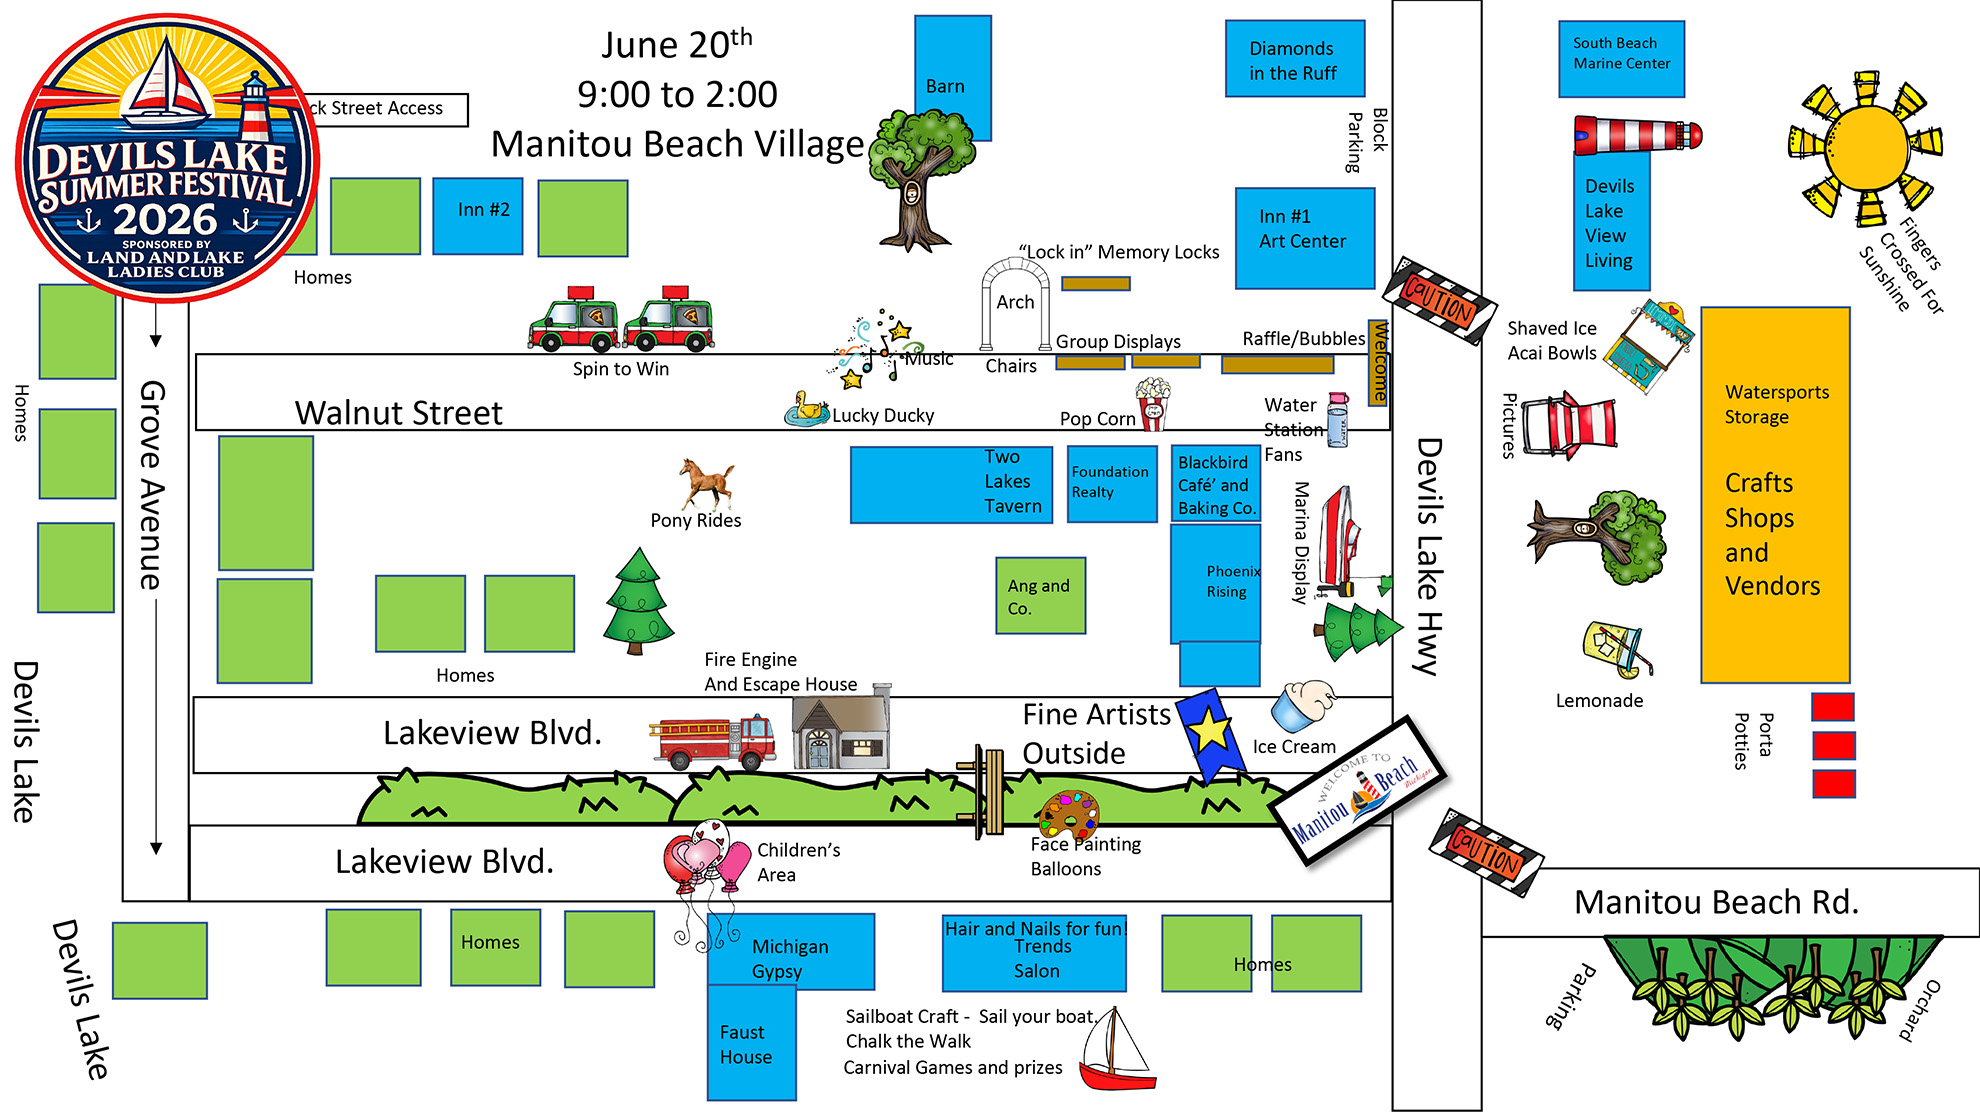
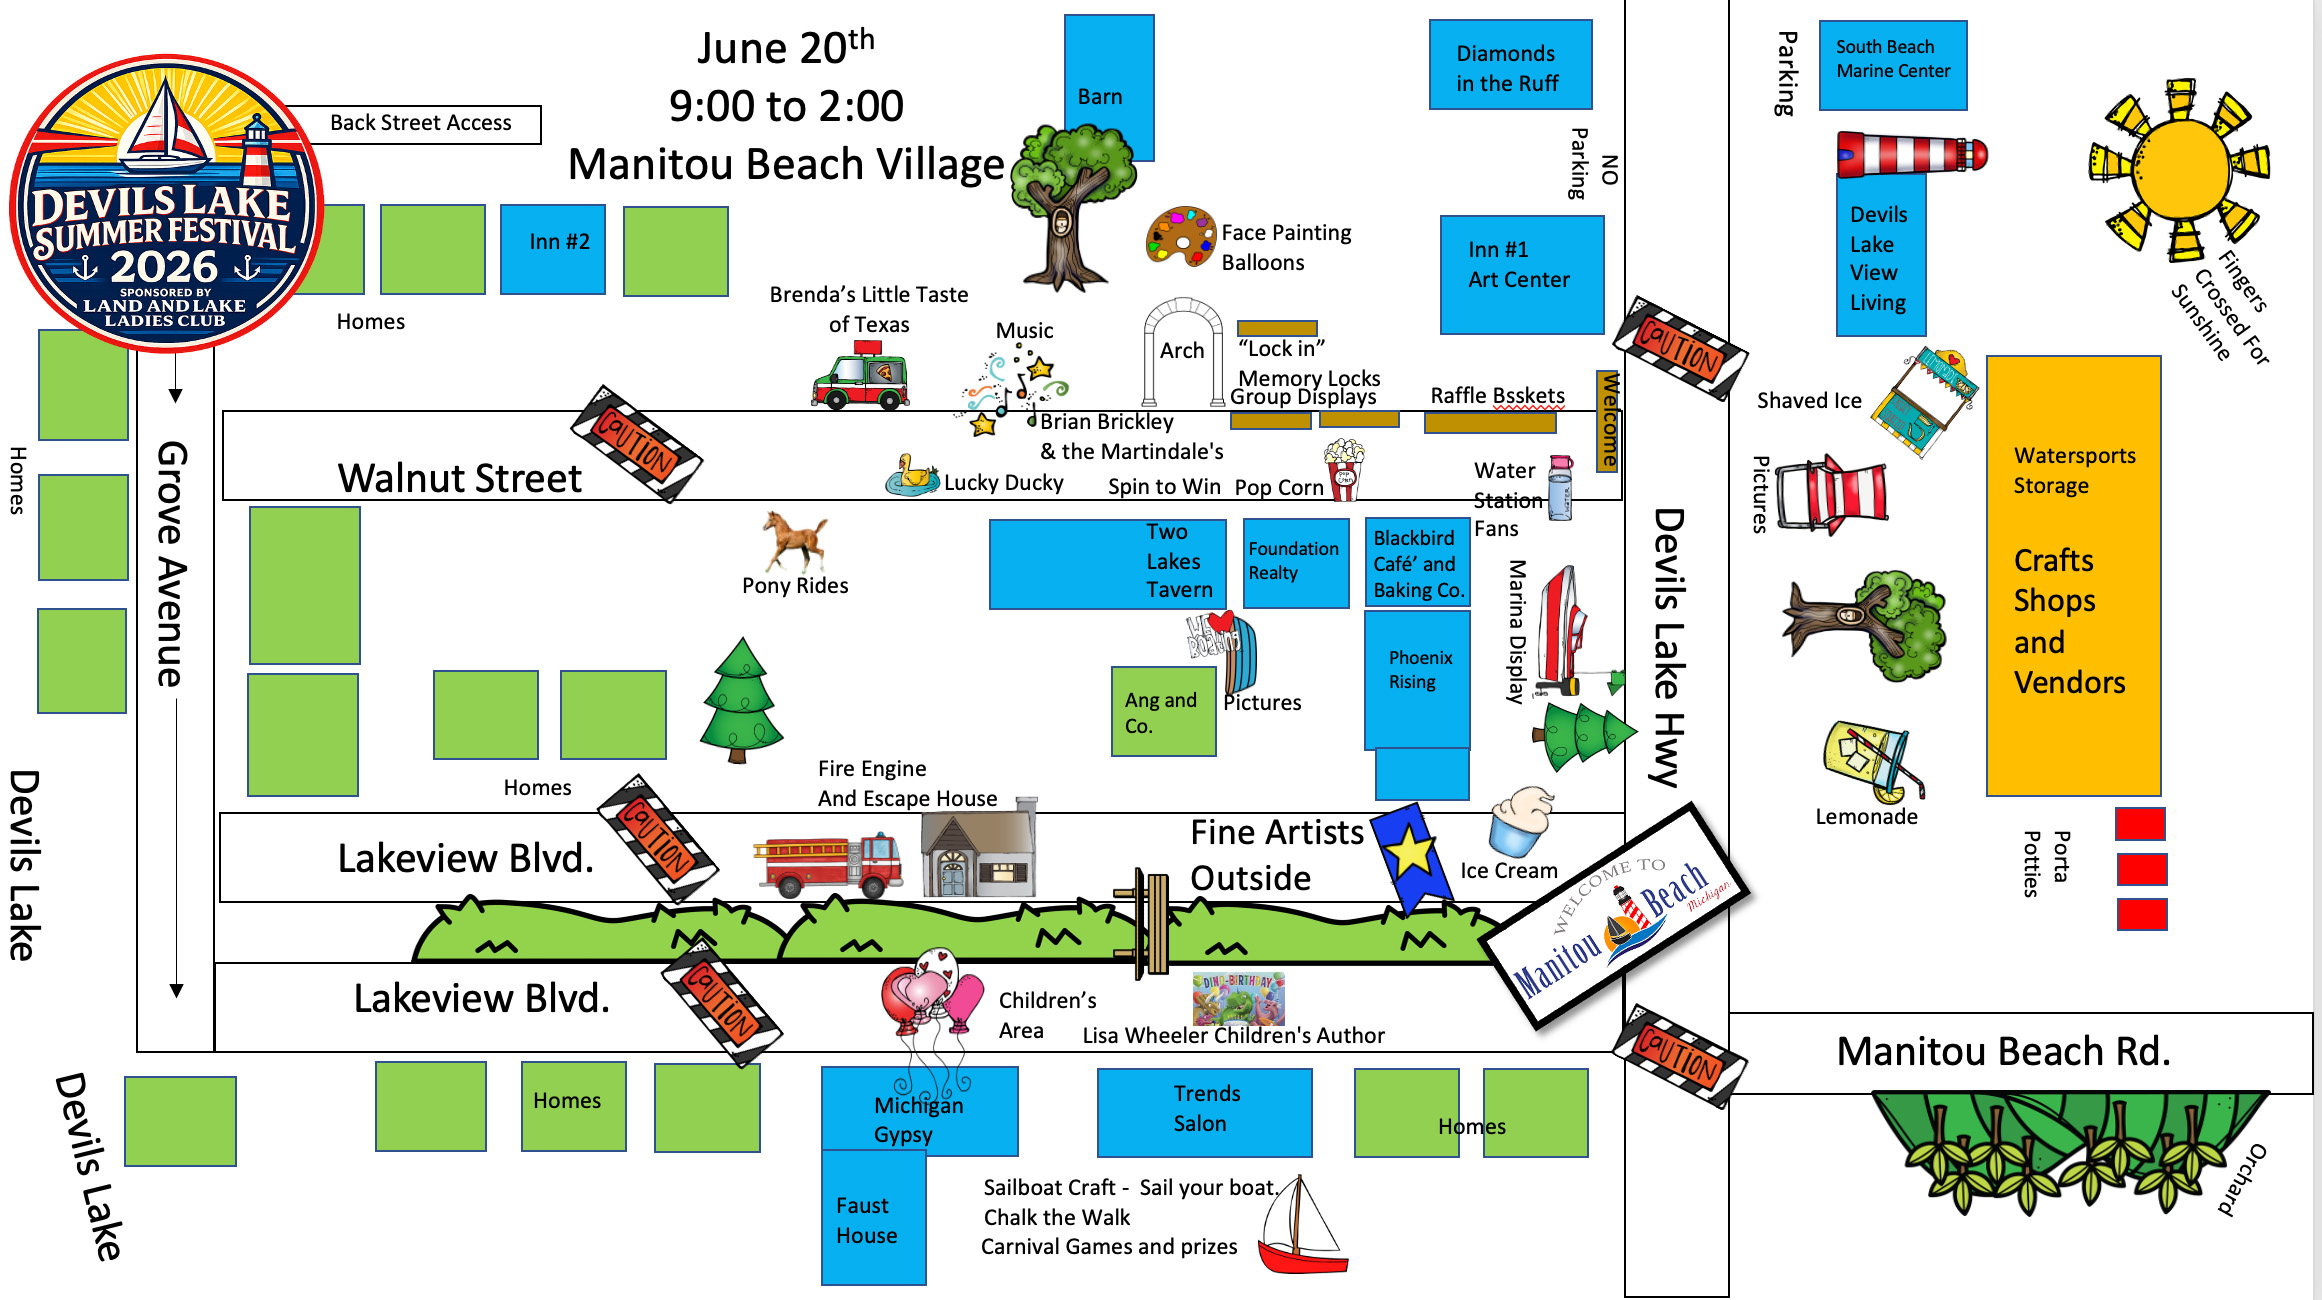
Add Facebook + Instagram handle tagging to business spotlight captions
Extracts @user from each business's Facebook and Instagram URLs in Notion and appends social lines to the caption. Skips generic paths (pages/, groups/, profile.php). Falls back gracefully if fields are empty.

diff --git a/src/pages/LadiesClubPage.jsx b/src/pages/LadiesClubPage.jsx
@@ -157,115 +157,13 @@ function LadiesClubMissionSection() {
   );
 }
 
-function SpringFlingSection() {
-  const businesses = ["Trends", "Ang & Co", "Lake Roots Salon", "Faust House", "Two Lakes", "Devils Lake View Living", "Blackbird Cafe", "Paula's Poop Deck"];
-
-  return (
-    <section style={{ background: C.warmWhite, padding: "80px 24px" }}>
-      <div style={{ maxWidth: 960, margin: "0 auto" }}>
-        <FadeIn>
-          <div style={{ textAlign: "center", marginBottom: 56 }}>
-            <SectionLabel>Upcoming Event</SectionLabel>
-            <SectionTitle center>Spring Fling in the Village</SectionTitle>
-            <div style={{ display: "inline-flex", alignItems: "center", gap: 8, background: `${C.sunset}18`, border: `1px solid ${C.sunset}40`, borderRadius: 6, padding: "6px 16px", marginBottom: 20, fontFamily: "'Libre Franklin', sans-serif", fontSize: 12, fontWeight: 700, letterSpacing: 2, textTransform: "uppercase", color: C.sunset }}>
-              May 9th, 2026 · Begins at 10:00 AM
-            </div>
-            <p style={{ fontSize: 15, color: C.textLight, lineHeight: 1.8, maxWidth: 620, margin: "0 auto" }}>
-              We're excited to be part of the Spring Fling in the Village! Stop by and see us on the deck at Devils Lake View Living, where we'll be featuring a fabulous $100 giveaway you won't want to miss.
-            </p>
-          </div>
-        </FadeIn>
-
-        {/* Two-column layout */}
-        <div style={{ display: "grid", gridTemplateColumns: "1fr 1fr", gap: 32, marginBottom: 48 }} className="mobile-col-1">
-
-          {/* Basket photo */}
-          <FadeIn delay={60}>
-            <div style={{ borderRadius: 16, overflow: "hidden", boxShadow: "0 8px 32px rgba(0,0,0,0.12)" }}>
-              <img
-                src="/images/ladies-club/spring-fling/basket.jpg"
-                alt="Spring Fling $100 Giveaway Basket"
-                style={{ width: "100%", height: 420, objectFit: "cover", display: "block" }}
-              />
-            </div>
-          </FadeIn>
-
-          {/* How to enter */}
-          <FadeIn delay={100}>
-            <div style={{ display: "flex", flexDirection: "column", justifyContent: "center", gap: 24 }}>
-              <div>
-                <div style={{ fontFamily: "'Caveat', cursive", fontSize: 24, color: C.sunset, marginBottom: 8 }}>
-                  $100 Giveaway - Here's How to Enter
-                </div>
-                <div style={{ display: "flex", flexDirection: "column", gap: 16 }}>
-                  {[
-                    { num: "1", text: "Pick up your Spring Fling Flower Card at our table on the deck." },
-                    { num: "2", text: "Visit 4 participating businesses around the Village and collect initials on your flower petals." },
-                    { num: "3", text: "Return your completed card with your name and phone number to enter the drawing." },
-                    { num: "4", text: "No need to be present to win - enjoy the day at your own pace!" },
-                  ].map(step => (
-                    <div key={step.num} style={{ display: "flex", gap: 14, alignItems: "flex-start" }}>
-                      <div style={{ width: 32, height: 32, borderRadius: "50%", background: C.sunset, color: "#fff", display: "flex", alignItems: "center", justifyContent: "center", fontFamily: "'Libre Baskerville', serif", fontSize: 15, flexShrink: 0, marginTop: 2 }}>
-                        {step.num}
-                      </div>
-                      <p style={{ fontSize: 14, color: C.text, lineHeight: 1.65, margin: 0 }}>{step.text}</p>
-                    </div>
-                  ))}
-                </div>
-              </div>
-
-              <div style={{ background: C.cream, borderRadius: 12, padding: "16px 20px", border: `1px solid ${C.sand}` }}>
-                <div style={{ fontFamily: "'Libre Franklin', sans-serif", fontSize: 11, fontWeight: 700, letterSpacing: 2, textTransform: "uppercase", color: C.sage, marginBottom: 8 }}>We'll Be on the Deck</div>
-                <div style={{ fontSize: 14, color: C.text, fontWeight: 600 }}>10:00 AM - 2:00 PM</div>
-                <div style={{ fontSize: 13, color: C.textLight, marginTop: 4 }}>Devils Lake View Living</div>
-                <div style={{ fontSize: 13, color: C.textMuted, marginTop: 6, lineHeight: 1.6 }}>Shops, businesses, and restaurants will be open all day - keep the fun going!</div>
-              </div>
-            </div>
-          </FadeIn>
-        </div>
-
-        {/* Flower card photo + participating businesses */}
-        <div style={{ display: "grid", gridTemplateColumns: "1fr 1fr", gap: 32 }} className="mobile-col-1">
-          <FadeIn delay={140}>
-            <div style={{ borderRadius: 16, overflow: "hidden", boxShadow: "0 8px 32px rgba(0,0,0,0.10)" }}>
-              <img
-                src="/images/ladies-club/spring-fling/flower-card.jpg"
-                alt="Spring Fling Flower Card"
-                style={{ width: "100%", height: 340, objectFit: "cover", display: "block" }}
-              />
-            </div>
-          </FadeIn>
-
-          <FadeIn delay={180}>
-            <div style={{ display: "flex", flexDirection: "column", justifyContent: "center" }}>
-              <div style={{ fontFamily: "'Libre Franklin', sans-serif", fontSize: 11, fontWeight: 700, letterSpacing: 2.5, textTransform: "uppercase", color: C.sage, marginBottom: 16 }}>
-                Participating Businesses
-              </div>
-              <div style={{ display: "flex", flexWrap: "wrap", gap: 8, marginBottom: 24 }}>
-                {businesses.map(b => (
-                  <span key={b} style={{ background: C.cream, border: `1px solid ${C.sand}`, borderRadius: 20, padding: "5px 14px", fontSize: 13, color: C.text, fontFamily: "'Libre Franklin', sans-serif" }}>{b}</span>
-                ))}
-              </div>
-              <p style={{ fontSize: 14, color: C.textLight, lineHeight: 1.75, margin: 0 }}>
-                Stroll, shop, and celebrate spring with us. Let your day bloom with fun, and you just might leave with something extra bright!
-              </p>
-            </div>
-          </FadeIn>
-        </div>
-
-      </div>
-    </section>
-  );
-}
 
 function LadiesClubEventsSection() {
   const features = [
-    { label: "Live Music", desc: "Continuous entertainment throughout the day with seating provided for relaxation" },
-    { label: "Fine Arts Section", desc: "A dozen or more outdoor artist booths featuring local talent and original work" },
-    { label: "Children's Area", desc: "Bounce items, face painting, Lucky Ducky, balloons, and fun for all ages" },
-    { label: "Crafts & Vendors", desc: "Local makers, artisan goods, handmade creations, and the Farmer's Craft Market" },
-    { label: "Food & Drinks", desc: "Shaved ice, acai bowls, possible craft beer and wine - something for everyone" },
-    { label: "Raffle Baskets", desc: "6-8 items to bid on" },
+    { label: "35+ Crafters & Vendors", desc: "Local makers, artisan goods, handmade creations, and the Farmer's Craft Market", img: "/images/ladies-club/crafters.jpg" },
+    { label: "Fine Artists Area", desc: "Original work from talented local and regional artists", img: "/images/ladies-club/artists.jpg" },
+    { label: "Local Author Lisa Wheeler", desc: "Books, signings, and story time near the Children's Area", img: "/images/ladies-club/lisa.jpg", link: { label: "lisawheelerbooks.com", url: "https://www.lisawheelerbooks.com/" } },
+    { label: "Amazing Raffle Baskets", desc: "8 baskets, each valued at over $150 - you won't want to miss your shot", img: "/images/ladies-club/raffle.jpg" },
   ];
 
   const tiers = [
@@ -405,25 +303,163 @@ function LadiesClubEventsSection() {
           </div>
         </FadeIn>
 
-        {/* What to Expect - 3 per row, larger text */}
+        {/* Band Spotlight */}
+        <FadeIn delay={140}>
+          <div style={{
+            background: "rgba(255,255,255,0.04)", border: "1px solid rgba(255,255,255,0.08)",
+            borderRadius: 18, overflow: "hidden", marginBottom: 32,
+          }}>
+            <div style={{ display: "grid", gridTemplateColumns: "1fr 1fr", gap: 0 }} className="mobile-col-1">
+              <div style={{ position: "relative", minHeight: 280, overflow: "hidden" }}>
+                <img
+                  src="/images/ladies-club/martindales.jpg"
+                  alt="Brian Brickley and The Martindales"
+                  style={{ width: "100%", height: "100%", objectFit: "cover", minHeight: 280, display: "block" }}
+                />
+                <div style={{ position: "absolute", inset: 0, background: "linear-gradient(to right, transparent 60%, rgba(8,14,20,0.7) 100%)" }} />
+              </div>
+              <div style={{ padding: "40px 36px", display: "flex", flexDirection: "column", justifyContent: "center" }}>
+                <div style={{ fontFamily: "'Libre Franklin', sans-serif", fontSize: 10, fontWeight: 700, letterSpacing: 3, textTransform: "uppercase", color: C.sunsetLight, marginBottom: 12 }}>
+                  Live Music
+                </div>
+                <h3 style={{ fontFamily: "'Libre Baskerville', serif", fontSize: "clamp(20px, 2.5vw, 28px)", fontWeight: 400, color: C.cream, margin: "0 0 10px 0", lineHeight: 1.2 }}>
+                  Brian Brickley &<br />The Martindales
+                </h3>
+                <div style={{ fontFamily: "'Caveat', cursive", fontSize: 17, color: C.sunsetLight, marginBottom: 16 }}>
+                  10:00 AM - 2:00 PM
+                </div>
+                <p style={{ fontSize: 14, color: "rgba(255,255,255,0.5)", lineHeight: 1.7, margin: 0, fontStyle: "italic" }}>
+                  "The best damn Southern soul band... period."
+                </p>
+              </div>
+            </div>
+          </div>
+        </FadeIn>
+
+        {/* What to Expect label */}
         <FadeIn delay={150}>
           <div style={{ marginBottom: 20, fontFamily: "'Libre Franklin', sans-serif", fontSize: 11, fontWeight: 700, letterSpacing: 3, textTransform: "uppercase", color: "rgba(255,255,255,0.3)" }}>
             What to Expect
           </div>
         </FadeIn>
-        <div style={{ display: "grid", gridTemplateColumns: "repeat(3, 1fr)", gap: 16, marginBottom: 40 }} className="mobile-col-1">
+
+        {/* Children's Area - large hero card */}
+        <FadeIn delay={155}>
+          <div style={{ background: "rgba(255,255,255,0.04)", border: "1px solid rgba(255,255,255,0.06)", borderRadius: 14, overflow: "hidden", marginBottom: 16 }}>
+            <img src="/images/ladies-club/childrens-area.jpg" alt="Children's Area" style={{ width: "100%", height: "auto", display: "block" }} />
+            <div style={{ padding: "16px 20px", display: "flex", alignItems: "center", justifyContent: "space-between", flexWrap: "wrap", gap: 10 }}>
+              <div>
+                <div style={{ fontSize: 15, fontWeight: 600, color: C.cream, marginBottom: 4, fontFamily: "'Libre Franklin', sans-serif" }}>Children's Area</div>
+                <p style={{ fontSize: 13, color: "rgba(255,255,255,0.4)", lineHeight: 1.6, margin: 0 }}>Create-a-Boat & Float It, carnival games, face painting, and pony rides</p>
+              </div>
+              <a href="https://seriouslyfunnybiz.com/" target="_blank" rel="noopener noreferrer"
+                style={{ display: "inline-flex", alignItems: "center", gap: 4, fontSize: 12, color: C.sunsetLight, fontFamily: "'Libre Franklin', sans-serif", fontWeight: 600, textDecoration: "none", whiteSpace: "nowrap" }}>
+                Seriously Funny Biz ↗
+              </a>
+            </div>
+          </div>
+        </FadeIn>
+
+        {/* 2x2 grid */}
+        <div style={{ display: "grid", gridTemplateColumns: "1fr 1fr", gap: 16, marginBottom: 16 }}>
           {features.map((f, i) => (
-            <FadeIn key={i} delay={160 + i * 40}>
-              <div style={{ background: "rgba(255,255,255,0.04)", border: "1px solid rgba(255,255,255,0.06)", borderRadius: 14, padding: "24px 22px" }}>
-                <div style={{ fontSize: 16, fontWeight: 600, color: C.cream, marginBottom: 8, fontFamily: "'Libre Franklin', sans-serif" }}>{f.label}</div>
-                <p style={{ fontSize: 14, color: "rgba(255,255,255,0.4)", lineHeight: 1.65, margin: 0 }}>{f.desc}</p>
+            <FadeIn key={i} delay={165 + i * 40}>
+              <div style={{ background: "rgba(255,255,255,0.04)", border: "1px solid rgba(255,255,255,0.06)", borderRadius: 14, overflow: "hidden" }}>
+                <img src={f.img} alt={f.label} style={{ width: "100%", height: "auto", display: "block" }} />
+                <div style={{ padding: "14px 16px" }}>
+                  <div style={{ fontSize: 13, fontWeight: 600, color: C.cream, marginBottom: 4, fontFamily: "'Libre Franklin', sans-serif" }}>{f.label}</div>
+                  <p style={{ fontSize: 12, color: "rgba(255,255,255,0.4)", lineHeight: 1.6, margin: 0 }}>{f.desc}</p>
+                  {f.link && (
+                    <a href={f.link.url} target="_blank" rel="noopener noreferrer"
+                      style={{ display: "inline-flex", alignItems: "center", gap: 4, marginTop: 8, fontSize: 11, color: C.sunsetLight, fontFamily: "'Libre Franklin', sans-serif", fontWeight: 600, textDecoration: "none" }}>
+                      {f.link.label} ↗
+                    </a>
+                  )}
+                </div>
               </div>
             </FadeIn>
           ))}
         </div>
 
-        {/* Festival Map */}
+        {/* Popcorn - large closer */}
+        <FadeIn delay={210}>
+          <div style={{ background: "rgba(255,255,255,0.04)", border: "1px solid rgba(255,255,255,0.06)", borderRadius: 14, overflow: "hidden", marginBottom: 32 }}>
+            <img src="/images/ladies-club/popcorn.jpg" alt="Free fresh popcorn outside Foundation Realty" style={{ width: "100%", height: "auto", display: "block" }} />
+            <div style={{ padding: "14px 20px" }}>
+              <div style={{ fontSize: 15, fontWeight: 600, color: C.cream, marginBottom: 4, fontFamily: "'Libre Franklin', sans-serif" }}>Free Fresh Popcorn</div>
+              <p style={{ fontSize: 13, color: "rgba(255,255,255,0.4)", lineHeight: 1.6, margin: 0 }}>Hot, fresh popcorn outside Foundation Realty - on the house!</p>
+            </div>
+          </div>
+        </FadeIn>
+
+        {/* Food Vendors */}
         <FadeIn delay={200}>
+          <div style={{ marginBottom: 16, fontFamily: "'Libre Franklin', sans-serif", fontSize: 11, fontWeight: 700, letterSpacing: 3, textTransform: "uppercase", color: "rgba(255,255,255,0.3)" }}>
+            Food Favorites
+          </div>
+          <div style={{ display: "grid", gridTemplateColumns: "repeat(auto-fill, minmax(200px, 1fr))", gap: 12, marginBottom: 40 }}>
+            {[
+              { name: "Brenda's Little Taste of Texas", url: "https://brendas-little-taste-of-texas.weeblyte.com/" },
+              { name: "Sips and Sweets", url: "https://www.facebook.com/profile.php?id=61557431462745" },
+              { name: "Hannah's Hawaiian Shaved Ice", url: "https://www.facebook.com/p/Hannahs-Hawaiian-Shaved-Ice-100086661759892/" },
+            ].map((v, i) => (
+              <a
+                key={i}
+                href={v.url}
+                target="_blank"
+                rel="noopener noreferrer"
+                style={{
+                  display: "block", background: "rgba(255,255,255,0.04)", border: "1px solid rgba(255,255,255,0.06)",
+                  borderRadius: 12, padding: "18px 20px", textDecoration: "none",
+                  transition: "border-color 0.2s, background 0.2s",
+                }}
+                onMouseEnter={e => { e.currentTarget.style.borderColor = "rgba(255,255,255,0.15)"; e.currentTarget.style.background = "rgba(255,255,255,0.07)"; }}
+                onMouseLeave={e => { e.currentTarget.style.borderColor = "rgba(255,255,255,0.06)"; e.currentTarget.style.background = "rgba(255,255,255,0.04)"; }}
+              >
+                <div style={{ fontSize: 14, fontWeight: 600, color: C.cream, fontFamily: "'Libre Franklin', sans-serif", marginBottom: 4 }}>{v.name}</div>
+                <div style={{ fontSize: 11, color: C.sunsetLight, fontFamily: "'Libre Franklin', sans-serif", letterSpacing: 0.3 }}>Visit ↗</div>
+              </a>
+            ))}
+          </div>
+        </FadeIn>
+
+        {/* Village Stores */}
+        <FadeIn delay={225}>
+          <div style={{ marginBottom: 16, fontFamily: "'Libre Franklin', sans-serif", fontSize: 11, fontWeight: 700, letterSpacing: 3, textTransform: "uppercase", color: "rgba(255,255,255,0.3)" }}>
+            Village Stores Open All Day
+          </div>
+          <div style={{ display: "grid", gridTemplateColumns: "repeat(4, 1fr)", gap: 16, marginBottom: 40 }} className="mobile-col-2">
+            {[
+              { name: "Blackbird Cafe",             logo: "/images/blackbird-logo.png" },
+              { name: "Two Lakes Tavern",            logo: "/images/two_lakes_logo.jpg" },
+              { name: "Michigan Gypsy",              logo: "/images/michigan-gypsy-logo.png" },
+              { name: "Boathouse Art Gallery",       logo: "/images/boathouse-art-gallery-logo.jpg" },
+              { name: "Devils Lake View Living",     logo: "/images/dl-view-living-logo.png" },
+              { name: "Ang & Co",                    logo: "/images/ang_co_logo.png" },
+              { name: "Trends Salon & Spa",          logo: "/images/trends-logo.png" },
+              { name: "Faust House Scrap & Craft",   logo: "/images/faust_house_logo.png" },
+            ].map((s, i) => (
+              <FadeIn key={i} delay={230 + i * 25}>
+                <div style={{
+                  background: "#fff", borderRadius: 10, overflow: "hidden",
+                  border: "1px solid rgba(255,255,255,0.1)",
+                  display: "flex", flexDirection: "column", alignItems: "center",
+                  padding: "20px 16px", gap: 12,
+                }}>
+                  <img
+                    src={s.logo}
+                    alt={s.name}
+                    style={{ width: "100%", maxHeight: 100, objectFit: "contain", display: "block" }}
+                  />
+                  <div style={{ fontSize: 11, color: "#3a3228", fontFamily: "'Libre Franklin', sans-serif", textAlign: "center", lineHeight: 1.3 }}>{s.name}</div>
+                </div>
+              </FadeIn>
+            ))}
+          </div>
+        </FadeIn>
+
+        {/* Festival Map */}
+        <FadeIn delay={220}>
           <img
             src="/images/ladies-club/summerfest-map.jpg"
             alt="Summer Festival 2026 Map - Manitou Beach Village"
@@ -1111,6 +1147,7 @@ export default function LadiesClubPage() {
         title="Land & Lake Ladies Club"
         description="Land & Lake Ladies Club - women's civic organization in Manitou Beach, Michigan. Summer Festival, community events, and membership."
         path="/ladies-club"
+        ogImage="https://manitoubeachmichigan.com/images/ladies-club/summer-festival.png"
         schema={SUMMERFEST_SCHEMA}
         breadcrumbs={[
           { name: 'Home', path: '/' },
@@ -1122,7 +1159,6 @@ export default function LadiesClubPage() {
       <Navbar activeSection="" scrollTo={subScrollTo} isSubPage={true} />
       <LadiesClubHero />
       <LadiesClubMissionSection />
-      <SpringFlingSection />
       <LadiesClubSponsorsSection />
       <LadiesClubEventsSection />
       <LadiesClubGallerySection />

diff --git a/scripts/generate-business-spotlight.js b/scripts/generate-business-spotlight.js
@@ -452,24 +452,36 @@ async function main() {
   if (log.featured.length > 200) log.featured = log.featured.slice(-200);
   fs.writeFileSync(FEATURED_LOG, JSON.stringify(log, null, 2), 'utf8');
 
-  // Extract Instagram handle from URL or raw handle string
   function extractInstagramHandle(raw) {
     if (!raw) return null;
-    // Strip URL prefix: https://instagram.com/handle or https://www.instagram.com/handle/
     const match = raw.match(/instagram\.com\/([^/?#]+)/i);
     if (match) return `@${match[1].replace(/\/$/, '')}`;
-    // Already a handle
     const h = raw.trim();
     if (h.startsWith('@')) return h;
     if (/^[a-zA-Z0-9_.]+$/.test(h)) return `@${h}`;
     return null;
   }
 
+  function extractFacebookHandle(raw) {
+    if (!raw) return null;
+    const match = raw.match(/facebook\.com\/([^/?#]+)/i);
+    if (!match) return null;
+    const handle = match[1].replace(/\/$/, '');
+    // Skip generic paths like 'pages', 'groups', 'profile.php'
+    if (/^(pages|groups|profile\.php|events|watch|marketplace)$/i.test(handle)) return null;
+    return `@${handle}`;
+  }
+
   // Build caption
   const profileUrl = `https://manitoubeachmichigan.com/business/${slug}`;
   const igHandle  = extractInstagramHandle(biz.instagram);
+  const fbHandle  = extractFacebookHandle(biz.facebook);
   const websiteLine = biz.website ? `\nVisit them at: ${biz.website}` : '';
-  const tagLine = igHandle ? `\nFollow them: ${igHandle}` : '';
+  const socialLines = [
+    igHandle ? `Follow on IG: ${igHandle}` : null,
+    fbHandle ? `Find on FB: ${fbHandle}` : null,
+  ].filter(Boolean).join('\n');
+  const tagLine = socialLines ? `\n${socialLines}` : '';
   const caption = [
     `Shining a light on ${biz.name} - one of Manitou Beach's favorite local businesses.`,
     '',